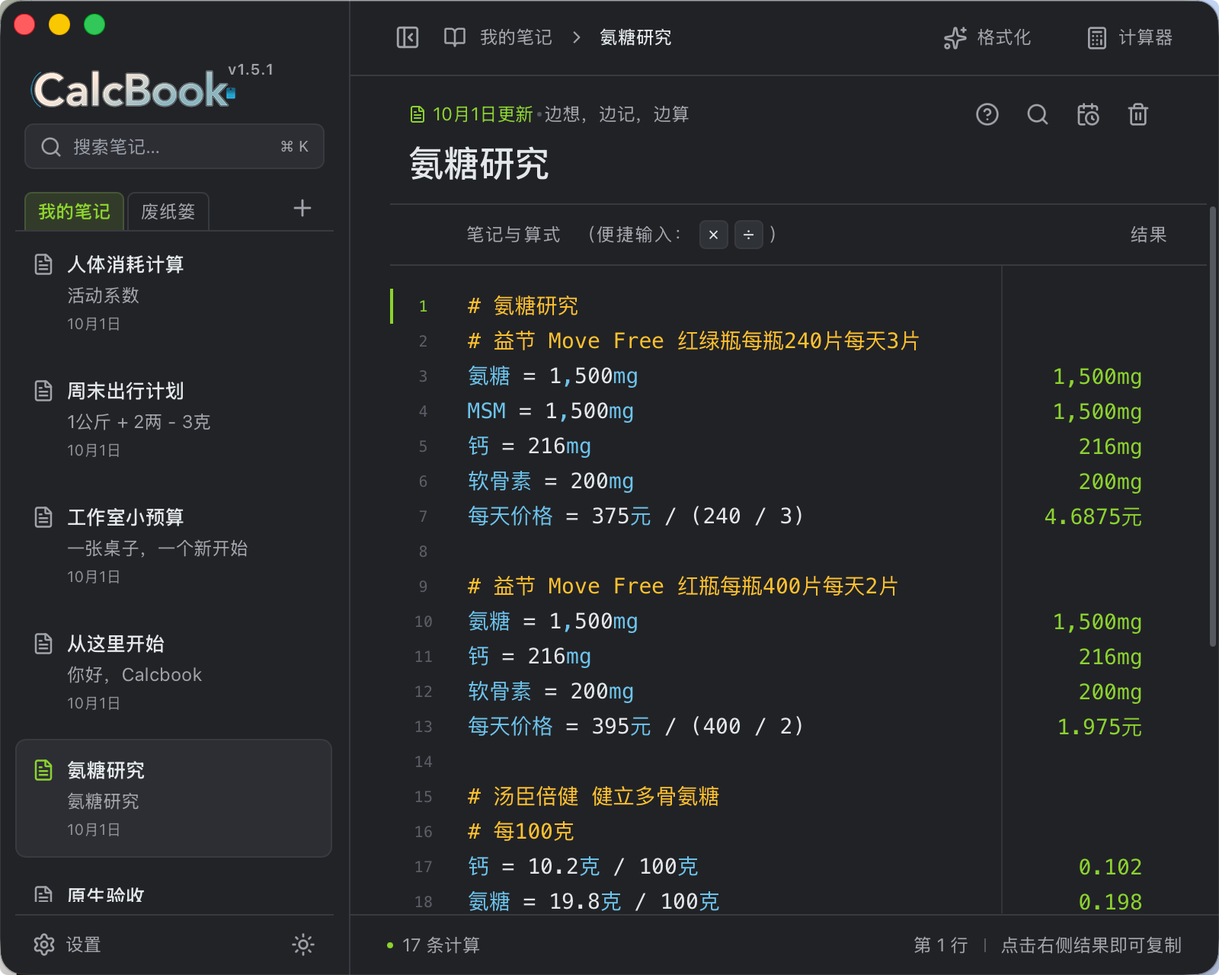
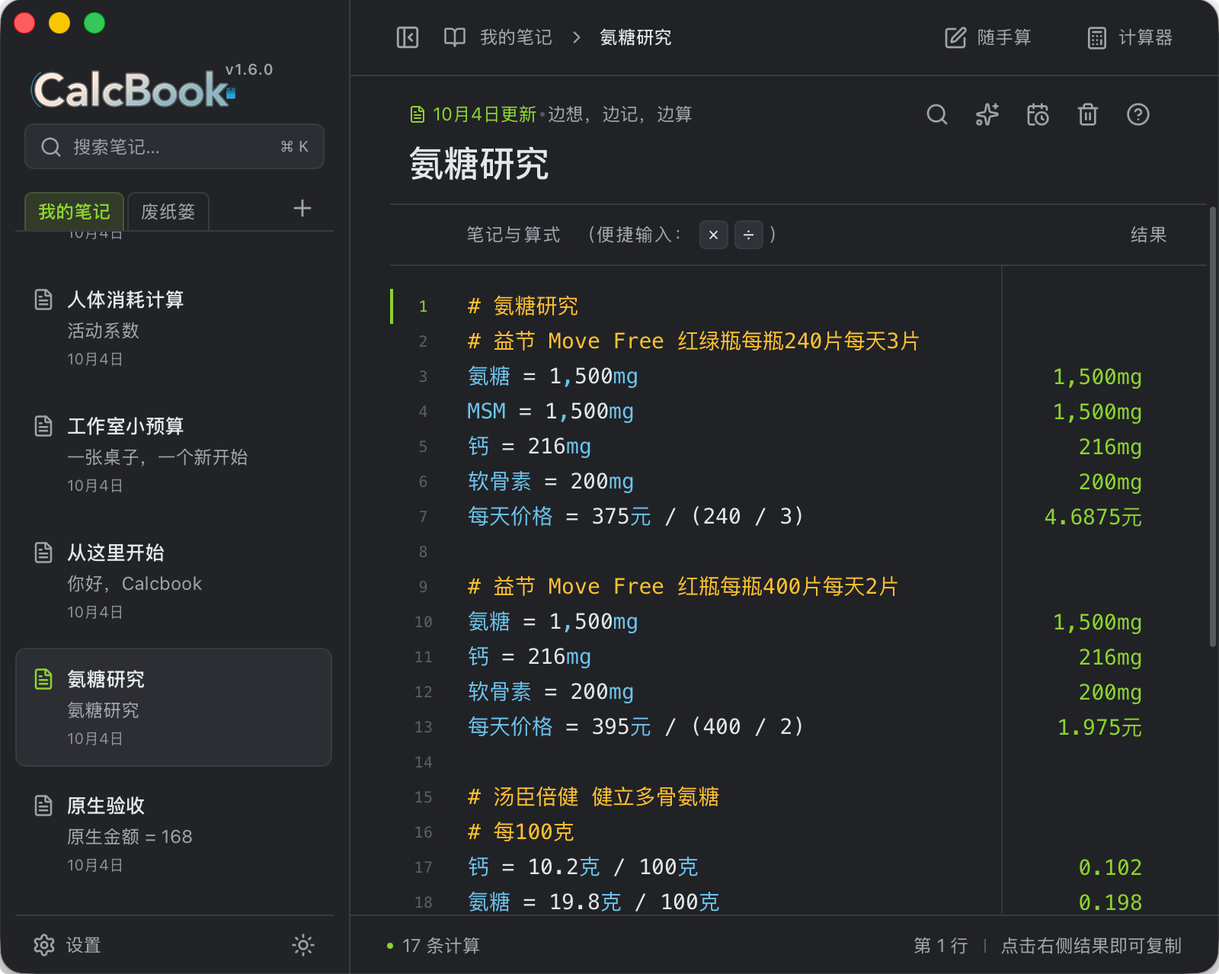
feat: 中文单位写法优先级（公斤→千克、公分→厘米）与 README 实机截图（1.6.1）
语法速查两处单位表显示中文别名：「保留字 · 单位」生成器把别名并入同格
（千克 / 公斤 → kg、厘米 / 公分 → cm），「单位与符号」长度行补公分。

格式化新增中文写法优先级 ZH_UNIT_PREFERENCE：公斤收敛到千克、公分收敛
到厘米（tokenize 后统一改写，制式换算与风格改写只见规范写法）；注释不改，
实时结果仍按写法记忆保留用户原写法。顺手清理 UNITS 里重复的 dan 条目。

README 截图换为 1.6.0 实机深色界面。

diff --git a/src/ui/HelpDialog.tsx b/src/ui/HelpDialog.tsx
@@ -67,12 +67,17 @@ const aggregateGroups: ReferenceGroup[] = [
   },
 ];
 
-// 保留字全表：单位（中英对照，来自单位登记表）+ 函数/常量/汇总/关键字。
+// 保留字全表：单位（中英对照，来自单位登记表；中文别名并入同一格——公斤是千克的别名，
+// 同样是保留字，必须可见）+ 函数/常量/汇总/关键字。
 const unitReservedRows: ReferenceGroup["rows"] = [];
+const chineseAliases = (entry: (typeof UNITS)[number]) =>
+  (entry.aliases ?? []).filter((alias) => /\p{Script=Han}/u.test(alias));
 for (let index = 0; index < UNITS.length; index += 4) {
   const chunk = UNITS.slice(index, index + 4);
   unitReservedRows.push([
-    chunk.map((entry) => `${entry.zh} → ${entry.en}`).join("；"),
+    chunk
+      .map((entry) => [entry.zh, ...chineseAliases(entry)].join(" / ") + ` → ${entry.en}`)
+      .join("；"),
     "单位",
     "-",
   ]);
@@ -127,7 +132,7 @@ const unitGroups: ReferenceGroup[] = [
     termLines: true,
     rows: [
       [
-        "公里 / 千米 → km；米 → m；厘米 → cm；毫米 / 微米 / 纳米 → mm / um / nm",
+        "公里 / 千米 → km；米 → m；厘米 / 公分 → cm；毫米 / 微米 / 纳米 → mm / um / nm",
         "长度",
         "1英里 + 1公里 → 2.6093 km",
       ],

diff --git a/src/domain/units.ts b/src/domain/units.ts
@@ -84,7 +84,6 @@ export const UNITS: Entry[] = [
   { en: "t", zh: "吨", aliases: ["tonne", "tonnes", "公吨"] },
   { en: "jin", zh: "斤" },
   { en: "dan", zh: "担", aliases: ["市担"] },
-  { en: "dan", zh: "担", aliases: ["市担"] },
   { en: "liang", zh: "两" },
   { en: "qian", zh: "钱", aliases: ["市钱"] },
   { en: "lb", zh: "磅", aliases: ["pound", "pounds", "lbs", "lbm"], imperial: true },
@@ -220,6 +219,14 @@ for (const entry of UNITS) {
     }
   }
 }
+
+// 格式化的中文写法优先级（1.6.1）：同单位有多种中文写法时，格式化把算式收敛到优先写法。
+// 千克/厘米是规范名（UNITS.zh，结果呈现同源），公斤/公分是常用别名；实时结果仍保留用户写法。
+// 左值 → 右值；其余中文别名（公尺、千米、焦耳…）不在此列，格式化不动它们。
+export const ZH_UNIT_PREFERENCE: Record<string, string> = {
+  公斤: "千克",
+  公分: "厘米",
+};
 
 // 大小写兼容：输入 `5 KM` `1500MG` `2 ML` 与小写等价，输出统一小写缩写。
 // 表：小写形式 → 规范写法（输出用小写，重解析经此表还原）。

diff --git a/tests/units.test.ts b/tests/units.test.ts
@@ -106,6 +106,25 @@ test("按格式设置格式化整篇", () => {
   );
 });
 
+test("格式化把公斤/公分收敛到千克/厘米，注释与实时结果保留用户写法", () => {
+  assert.equal(
+    formatNoteBody("体重=70公斤\n桌宽=80公分", DEFAULT_FORMAT_SETTINGS, () => null),
+    "体重 = 70千克\n桌宽 = 80厘米",
+  );
+  // 公斤在注释里不参与计算，格式化不改注释
+  assert.equal(
+    formatNoteBody("体重=70公斤 # 公斤也认识", DEFAULT_FORMAT_SETTINGS, () => null),
+    "体重 = 70千克 # 公斤也认识",
+  );
+  // 千克/厘米本身写法不变；公斤/公分计算照常，实时结果保留用户写法
+  assert.equal(
+    formatNoteBody("重量=2千克\n长度=3厘米", DEFAULT_FORMAT_SETTINGS, () => null),
+    "重量 = 2千克\n长度 = 3厘米",
+  );
+  assert.deepEqual(display("70公斤"), ["70公斤"]);
+  assert.deepEqual(display("3公分"), ["3公分"]);
+});
+
 test("格式化统一乘号写法，保留除法写法", () => {
   // x 与 * 都排成 ×，不再把 x 当成单位吸附到数字上
   assert.equal(

diff --git a/src/domain/formatting.ts b/src/domain/formatting.ts
@@ -9,6 +9,7 @@ import {
   TO_METRIC,
   type UnitSystemKind,
   unitKind,
+  ZH_UNIT_PREFERENCE,
   zhToCanonical,
 } from "./units.ts";
 
@@ -155,6 +156,13 @@ export function formatExpression(
   convert: ConvertQuantity,
 ): string {
   let tokens = tokenize(unifyMultiplication(expression));
+  // 中文写法优先级（1.6.1）：公斤→千克、公分→厘米。放在最前，
+  // 后续制式换算与风格改写都只见规范写法；注释不进这里，不会被改。
+  tokens = tokens.map((token) => {
+    if (token.kind !== "word") return token;
+    const preferred = ZH_UNIT_PREFERENCE[token.text];
+    return preferred ? { ...token, text: preferred } : token;
+  });
   const hasConversionWord = tokens.some(
     (token) => token.kind === "word" && isConversionWord(token.text),
   );

diff --git a/docs/QUALITY_SCORE.md b/docs/QUALITY_SCORE.md
@@ -12,7 +12,7 @@
 | 原生持久化 | 2026-09-30 标题即文件名（1.1.0）：`pnpm check:native` 通过（fmt + clippy + 13 个测试）。标题改为文件名主干——scan/create 返回 stem、正文 `#` 首行不再参与标题；新增 `rename_note`（撞名自动加序号、同名无操作、剥掉误带的 `.txt`、废纸篓改名留原层级、空名退回「未命名」）与 `create_note` 空正文落空文件的单测；修复 `resolve_pair` 对带 `recycled/` 前缀 id 的解析（重载后从废纸篓恢复此前会空转），恢复路径有回归断言。2026-09-21 `pnpm check:native` 通过（fmt + clippy + 5 个测试）：正文落到以标题命名的 `.txt`、元数据不重复保存正文、用户自己放进目录的 `.txt` 不被删除、越界文件名与损坏元数据拒绝写入、正文文件丢失时明确报错、单文件工作区迁移成 `.txt` 且旧文件留 `.bak`、旧数据目录只读不被就地改写、目录切换与配置提交失败保护 | 桌面实机改名（标题输入 → .txt 重命名）、外部文件管理器同看改名结果 |
 | 类型与构建 | 2026-09-30 `pnpm check` 完整通过（文档/架构门禁、格式、类型、测试、生产构建）；1.4.7 `.app` 构建通过（`pnpm desktop:build --bundles app`，Info.plist CFBundleShortVersionString 实测 1.4.7）（`pnpm desktop:build --bundles app`，产物 `target/release/bundle/macos/Calcbook.app`）。2026-09-28 `pnpm check` 完整通过（文档/架构门禁、格式、类型、76 个测试、生产构建） | 发行构建 |
 | 文档与架构 | 2026-09-21 同步笔记文件格式（Numi 兼容）、存储布局、导入命令与已知计算差异；架构门禁通过（13 篇文档、15 个模块） | 最新文档/架构门禁 |
-| 浏览器 UI | 2026-10-04 随手算启动恢复与文案（1.6.0，浏览器预览自动化实测 6 场景）：信息行文案改「临时笔记」。启动恢复约定 `activeId=null` =「当前显示的不是我的笔记里的笔记」——实测矩阵：① 有效 activeId reload 恢复原笔记；② activeId=null（上次在随手算）reload 落在新随手算（正文恰为初始一行、面包屑「随手算」）；③ 清空存储（首次打开）落随手算；④ activeId 指向废纸篓笔记 reload 落随手算；⑤ 点「随手算」按钮即把 activeId 置 null 持久化；⑥ 废纸篓 tab 置 null、切回我的笔记 tab 落回第一篇可用笔记。判定为幂等启动逻辑（useLayoutEffect 首帧前完成、无闪烁），不回写工作区；随手算 id 永不持久化（parseWorkspace 校验 activeId 必须在笔记集合内、Rust save_settings 过滤无效引用，双侧已核实）。notebook 单测覆盖 createWorkspace activeId=null 往返；`pnpm check` 与 `check:native`（14 个 Rust 测试）通过。 2026-10-04 随手算与工具行重排（1.5.6，浏览器预览自动化实测，800×640）：① 顶栏「随手算」（SquarePen）打开内存临时算稿——首次点开正文恰为一行「# 随手算笔记不会保存，app 退出即消失」，面包屑只显示「随手算」、标题框只读「随手算」、meta 显示「内存笔记 · 退出即消失」、侧栏选中项清零（实测 is-selected 0 个）、按钮 aria-pressed=true 高亮绿、document.title 同步；② 不落盘——编辑「2 + 3 / 预算 = 100 * 2」得结果列 5 / 200，localStorage 两键（workspace/history）扫描无随手算内容；③ 历史空态——随手算下打开历史弹窗显示「还没有历史记录」空态，不查存储层；④ 护栏——「移到废纸篓」禁用（title 提示不会保存为文件）；⑤ 恢复——切回普通笔记（面包屑/选中恢复、按钮熄灭）再点「随手算」，正文原样恢复；⑥ 格式化在随手算可用——`100 * 2` 整理为 `100 × 2`，toast 正常；⑦ 刷新（等价退出）随手算消失回到普通笔记；⑧ 工具行五图标顺序实测为 查找替换→格式化（sparkles，自顶栏移入）→历史记录→删除→语法速查；顶栏「尚未保存」错误指示改常驻条件渲染于按钮左侧。桌面 .app 随手算与真实文件系统隔离（无 createNoteFile 路径）由代码审查确认。 2026-10-04 计算器子窗口键盘接管与反馈修复（1.5.5，浏览器预览自动化实测，320×520 视口）：① 键盘整体接管——`1` `/` `3` 输入 `1÷3`（`/` `x` `*` `\` 实测映射为 ÷/×，字母 `a` 无反应，Escape/`C`/`c` 清空、`=` 与回车同为等于，实测 `9` `9` `=` 得 `99`）；② 等号精度——`1/3` 回车后算式框与结果列同变 `0.3333`，退格得 `0.333`（不再是 64 位长串），`1÷7` 续算 `×7=` 得 `1.0003`（keypad 单测覆盖）；③ 错误不挤布局——`1+` 回车后「算式还不完整…」原位替换顶部「随手算一算」（class `calc-error`、单行省略），屏高 143.00 与 keypad top 198.00 三态（前/错中/恢复）逐像素不变，按数字恢复文案；④ 算式框不可聚焦——readOnly、tabIndex=-1、mousedown 阻止，实测点击后 activeElement 仍为 BODY；⑤ 按压态——keydown 后 `7` 键带 `is-pressed`、keyup 后为 0 个；⑥ 算式屏底色随窗口焦点（`data-calc-focus`）；⑦ 按键音为 WebAudio 合成（`src/ui/keySound.ts`，无音频资源），自动化环境无法验证 audible，待实机试听。2026-10-01 反馈六项修复（1.5.4，浏览器预览 Chrome 152 自动化实测 19/19）：① 笔记工具行查找图标改开关——开着再点即关（`findOpen ? closeFind : openFind`），提示在「查找替换（Cmd+F）」/「关闭查找替换（Esc）」间切换，实测 开→关→开 三态；② 废纸篓空态不接受新建（主区无「新建笔记」按钮），面包屑显示「废纸篓 › 空」，切回「我的笔记」编辑器恢复；③ 标题输入框聚焦无外框（`outline: none`，实测命中 `:focus-visible` 且 outline-style none、无阴影）——1.5.1 移除共享绿框后浏览器默认蓝框接管，本版明确关闭；④ footer 分隔符由前导「· 」改为普通文字色管道符（`--muted`，实测 sep 与状态栏同色 rgb(104,114,125)）：结构为「n 条计算 \| n 处待检查 \| 第 k 处：原因」；⑤ 分隔符移到按钮外、用负外边距抵消 6px gap（左右各 3px），hover 下划线只落在可点击计数上（实测 sep/detail 的 text-decoration-line 为 none，按钮为 underline）。2026-10-01 结果列错误交互（1.5.3，浏览器预览 Chrome 152 自动化实测 13/13）：「检查算式」结果列内左对齐（距列左缘 < 30px）、无 title 属性；自定义提示浮层单行 nowrap、宽度随内容弹性（非旧固定 220px）、编辑器同色纸面/墨色、1px 默认边框色描边；点击按钮光标落到该行行尾（偏移精确）且焦点还回编辑器；footer 在「n 处待检查」后显示「第 k 处：出错原因」；浮层双向防溢出——向下空间不足改向上（按钮压滚动容器底缘实测 is-up 且提示在按钮上方）、向右超出改从行右缘向左展开（右缘不超出窗口）。验收环境备注：headless Chrome 的 Cmd+A 不触发 textarea 原生全选（合成 meta+a 到达页面但 selection 不变），脚本清空正文改 native setter + input 事件。2026-10-01 状态栏错误定位（1.5.2，浏览器预览 Chrome 152 自动化实测 6/6）：「n 处待检查」变为可点击按钮，点击把光标依次停在每个错误行的行尾并滚动可见、循环回绕、焦点还回编辑器、状态栏行号同步（实测坏算式行 2/4 行尾 caret 偏移精确、第三次点击循环回第 2 行）；遍历序号用独立 ref 维护不读当前光标（点击会让编辑器失焦），切换笔记重置。README 截图替换为 1.5.1 实机界面（1600×1280）。2026-10-01 查找替换反馈修复（1.5.1，浏览器预览 Chrome 152 自动化实测 12/12）：① 连续 Cmd+Z 重复正文修复——撤销改单轨，execCommand 成功即让位原生撤销栈（formatUndoRef 清空），仅回退路径挂应用内撤销；格式化同款路径一并修正。实测连续三次原生撤销（headless Chrome 无 macOS 编辑菜单、键盘 Cmd+Z 不到达 textarea，用 execCommand('undo') 代理）：第一次精确还原替换前、第二三次无重复内容。② 正则开关改 ASCII「.*」等宽字形（lucide Regex 圆点悬空像中文句号）。③ 全局移除 input 聚焦绿框（共享 :focus-visible 规则摘除 input，历史条数输入绿边框改中性色）。④ 笔记工具行加查找图标入口（历史记录左侧，点击打开浮动条）。⑤ 浮动条 top 6px→-34px，展开替换行不压首行正文与结果列（截图核对完整可见、无裁剪）。2026-10-01 笔记内查找替换（1.5.0，浏览器预览 Chrome 152 自动化实测）：⌘F 打开编辑区右上浮动条，三开关（区分大小写/全词 \b/正则）独立与组合生效——`price` 不区分大小写 1/3、区分后 1/1，`cat` 全词 1/2→1/1，`花(\d+)元` 正则 1/2；非法正则输入框标红、计数区「正则错误」不清空正文；Enter/Shift+Enter 导航首尾回绕且选区精确落位 [9,14]；替换行单替换走 execCommand 原生撤销逐步还原，全部替换先留档再一次 Cmd+Z 整体还原（`花(\d+)元`→`[$1]` 得 `[3] 又[15]`，整个匹配被替换串消费）；镜像层叠加全部匹配淡金底色、当前匹配唯一醒目（明暗主题截图核对），560px 窄窗口浮动条可用；跳转不抢焦点（修复输入竞态后 16/16 通过）。桌面 .app 实机操作待复核。2026-10-01 设置格式区重构与 tab 贴线（1.4.3）：设置弹窗格式区拆为「格式化 - 空格与数字」与单位两个 section（无 fieldset/legend/引导句，单位两组标签改为「格式化 - 单位写法」「格式化 - 单位制」共用一个 section，自由/制式说明保留），实测 legend/fieldset 数量为 0、h3 与分组标签文案正确；侧栏 tab 按钮与标题行底对齐——heading 改 align-items: flex-end、动作列 align-self: center，实测 button 底边距下边线 1px（贴在 border 上缘，下边线即按钮下边框效果）、右侧 + 图标中心 15/31 垂直居中（用户手调的 button 无下边框/顶圆角保留）。2026-10-01 窗口尺寸并入配置目录（1.4.7）：`window.json` 从默认数据目录 ~/.calcbook 移除，尺寸存 Application Support/settings.json 的 window 字段（与 dataDirectory 同文件，relocate 保留 window），数据目录迁走后 ~/.calcbook 不再有活跃写入；旧 window.json 兼容读取、首次保存后自动清理，损坏 settings.json 视为无记录不阻塞启动（原生 14 测试覆盖往返/钳制/兼容/清理）。2026-10-01 结果显示格式（1.4.6）：结果列与计算器 display 的数字与单位间空格实时跟随设置「数字与单位空格」（关 = `5km`/`99.5CNY` 紧贴、开 = `5 km` 带空格；正文经格式化对齐同一设置；raw 与写入 .txt 的 `= 结果` 保留带空格原格式且无千分位，Numi 兼容与 format.test 往返测试不受影响；新增 unitSpacing 契约测试）；千分位拆「笔记千分位逗号」（原 thousands，格式化写正文）与「结果千分位逗号」（新 resultThousands，默认开，只影响结果列）——实测设置弹窗内切换开关，结果列不关弹窗即时在 `3703701`↔`3,703,701` 间变化；TS/Rust FormatSettings 同步新字段（serde default true）。2026-10-01 编辑区滚动条贴窗缘（1.4.5）：`.editor-scroll` 去右 margin 改 `overflow-y: scroll`（透明轨道常驻 gutter，滚动条出现时布局不突变；刻意不用 scrollbar-gutter——旧 WKWebView 忽略该属性），结果列 padding-right 承担与滚动条的间距；实测长短内容 clientWidth/gridWidth 均 1016px 零变化、容器右缘距窗体 0px。2026-10-01 历史删除与删除确认（1.4.4，浏览器预览实测）：历史弹窗右上角关闭叉叉（打开时焦点实测落弹窗容器而非叉叉）；每条历史增加删除图标，确认弹窗（列明时间与不可恢复）后真实删除——实测 3→2 条、toast「已删除 10月1日 11:13:43 的历史」；编辑器工具行「移到废纸篓」改为先弹确认（列明标题、说明可恢复），实测确认前笔记不被删除；Rust `delete_history` 支持秒级与旧整点名（删空目录一并清理，非法名拒绝），原生 14 测试通过。2026-10-01 滚动条改纯 webkit 自绘（1.4.2）：1.4.1 仍见系统亮色粗条——新版 WebKit 支持 `scrollbar-width`，按规范元素设置标准属性后必须忽略 ::-webkit-scrollbar，回落到 macOS 平台渲染（跟随系统的亮色 overlay 条，深色主题里刺眼且颜色失控）。解法：删除全部 `scrollbar-width: thin` / `scrollbar-color`（calc-history-sidebar 的 none 保留作 Firefox 隐藏兜底），全站唯一来源是全局 `::-webkit-scrollbar` 8px（滑块 border 2px + background-clip，视觉约 4px 细条、圆角、`--scroll-thumb` 主题色），浏览器实测深色下编辑器滚动条为细圆条主题色。设置弹窗圈圈 i 移除，0 关闭语义合并进下方说明文字（「设为 0 关闭历史，将删除所有历史版本记录——编辑到哪篇或重启应用时才删除，重启前可反悔…」），实测弹窗无 Info 图标、文案完整。2026-10-01 修复与滚动条统一（1.4.1）：①桌面保存报错 `missing required key historyLimitKb`——Tauri 把命令参数名做 snake→camel 规范化，`historyLimitKB` 的结尾缩写 KB 降为 Kb，Rust 参数与前端 invoke 键改为 `historyLimitKb`（localStorage/JSON 字段仍为 historyLimitKB，不受影响）；②设置/帮助/历史弹窗容器改为不滚动（padding 0、内部区自带 padding），唯一滚动条贴 dialog 右缘，实测 body 右缘与 dialog 右缘差 1px（边框）；③theme 新增 `--scroll-thumb`（两主题各 #c4c9cf / #555860，带行内注释），全部 scrollbar-color 与 ::-webkit-scrollbar-thumb 统一引用，note-list 3px 特例同步换色；④全局 `::-webkit-scrollbar` 9px（border 2px + background-clip 视觉约 5px 细条）——WKWebView 不支持 `scrollbar-width: thin`（app 里粗条的原因），补 webkit 伪元素后桌面与浏览器一致。实测深浅主题设置弹窗滚动贴边、标题底栏固定。2026-09-30 历史 redesigned 为秒级快照（1.3.0）：文件名改为 `年-月-日-时-分-秒`，当前小时可有多份（定时节奏放缓为每 10 分钟、破坏性操作前各一份）；超过一小时的部分在每次留档与打开弹窗时整理——每小时只留最后一份并改名为整点 `…-时-00-00`（旧版 13 字符整点文件名兼容参与整理）；仅空行空格视为空文件不留档（有文字或数字都留档）。1.4.0 历史上限进设置弹窗（「编辑历史」区，KB 输入默认 128、0 = 关闭，Info 悬停提示；设 0 不立即清空——编辑到哪篇清哪篇、重启扫描清空全部，重启前可反悔），浏览器预览实测三段流程：128 编辑切换留档 1 条 → 设 0 编辑切换后该篇历史清空（未编辑笔记不受影响）→ 设回 128 留档恢复；另发现多标签同源互踩 localStorage 的验收假象（关掉多余标签后复测通过），上限经 save_workspace_settings/record_history 参数化传给 Rust（scan 读取设置：0 清空全部 history/、否则只清孤儿目录）；1.3.1 上限降为单篇 128KB（淘汰最早、最新一份永不淘汰——超大单篇快照可超限不至于历史全空），启动扫描清理不再对应任何笔记的孤儿 history 目录（外部改名/手工残留；废纸篓笔记的历史保留）；Rust 测试覆盖：同小时多份、旧小时归档留最后一份、旧格式迁移、128KB 淘汰、超大快照保留最新、孤儿目录清理、时间戳格式校验（14 个原生测试通过）；浏览器预览实测：无数字内容切换不留档（条目 0）、切换两次得两份秒级快照（22:47:01/22:47:02 同小时共存）、恢复载入第一版且未编辑切走切回不新增条目、弹窗标签显示到秒可区分同分钟快照。恢复不再覆盖被恢复的快照（各自独立秒级文件）。补充实测（规则修正后）：纯文字无数字内容切换正常留档；选中 6 行剪切（onCut）先留档再删除，条目 +1。2026-09-30 编辑历史与整行剪切换行（1.2.0，浏览器预览实测）：笔记工具行导入/导出按钮移除，换为「历史记录」（calendar-clock）打开固定尺寸弹窗——左列表（只显时间「9月30日 19时」）右预览、每项带恢复图标（calendar-arrow-up）；实测编辑→切换笔记触发留档→重开弹窗有条目有预览；恢复把历史内容载入编辑器（toast「已恢复到 9月30日 19时」）且列表刷新为当前小时桶内容（当前内容覆盖同桶快照，属每小时一桶的既定语义）；切走切回未编辑不新增条目（内容未变不重复备份）。实测整行 Cmd+X 剪贴板内容为含行尾换行的 `交通 = 186\n`、整行从正文移除。历史留档时机（2 分钟定时/切换/关闭/格式化前）中，定时与关闭路径为桌面运行时行为、预览态未实测；恢复后 Cmd+Z 撤销未实测（合成键不触发原生撤销）。2026-09-30 字标版本角标（1.1.1）：字标右上角 10px `--muted` 小字显示构建时注入的 `v版本号`，浏览器实测纸白/午夜两主题下右缘与字标对齐、随主题变色，文本 `v1.1.1` 与 package.json 一致；`.brand` 仍是拖拽区（角标非交互，按住可拖窗）。2026-09-30 标题即文件名与整行复制剪切（1.1.0，浏览器预览实测）：标题输入只改草稿、失焦/回车提交——真实焦点路径下改名后面包屑、侧栏卡片、`document.title` 与 localStorage 全部同步为「周末出行计划」，Escape 放弃（修复了 Escape 后同步失焦误提交旧草稿的闭包问题，改 ref 镜像）；预览 localStorage 数据仅改标题字段、正文首行 `#` 标记不动。编辑器无选区 Cmd+C：正文不变、剪贴板为整行 `0.1 + 0.2`（无换行）；无选区 Cmd+X：整行（含行尾换行）从正文移除、剪贴板为 `sqrt(144)`；有选区路径代码早退不 preventDefault。800×640 截图核对标题区/面包屑/列表一致，无控制台错误。注意：合成按键不触发浏览器默认编辑动作（Cmd+V/Cmd+Z/原生选区剪切），相关行为自动化无法验证。2026-09-29 主题标识重命名与固定布局（0.6.11）：主题 `paper`/`midnight` 改为 `light`/`dark`（CSS `[data-theme]`、工作区数据、Rust 校验与默认值同步），读取迁移 `paper`/`sand`/`mist`→`light`、`midnight`/`forest`/`graphite`→`dark`——实测 localStorage 塞 `midnight` 刷新后 dataset=dark、深色背景生效，保存后写回 `dark`；主题切换按钮 dark↔light 往返持久化正确。删除全部宽度/高度 media query（1500/1150/700 三块折叠进基础样式，`prefers-reduced-motion` 保留）：实测 800×640、1280×800、1700×1000 三尺寸 sidebar 230px、topbar/note-heading padding 完全一致；page-stamp 死样式随断点一并移除。编辑器聚焦不再显示描边（保留 `outline:none` 防全局绿 outline）；notebook-tabs 两按钮 1px 边框、选中项苔绿淡底（rgb(238,244,232)）绿字。计算器按键 41px 基础样式。2026-09-29 计算器「最近计算」标题位移修复（0.6.10）：旧实现清空按钮为 30 px IconButton 且仅在有历史时渲染，标题行从 min-height 36 px 撑到 47 px，实测标题 y 从 58 移到 64；改为固定 height 41 px（border-box：1 边框 + 16 内边距 + 24 按钮），清空动作改为与「历史」开关同款的带常显边框「清空」文字按钮（24 px 高、无图标）。实测空态/有历史/清空后三状态标题 y 均为 61、行高均为 41，点击清空后历史归零、空态提示回归。2026-09-29 侧栏 tab 改版（0.6.9）：列表标题行改为「我的笔记/废纸篓」两个 `aria-pressed` tab；「我的笔记」tab 行尾动作图标为「新建笔记」（+），「废纸篓」tab 为「永久删除全部」（垃圾桶）且图标左侧显示文件数（实测删 1 篇后显示 1，切换恢复正确）；文件列表下方新建按钮、侧栏底部废纸篓与语法速查按钮移除，底部只剩设置行；语法速查入口移到笔记工具行导入图标左侧（带圈问号），弹窗打开、Escape 关闭正常。2026-09-29 `pnpm dev` 改经 `scripts/dev.mjs`：预占 1420 端口（python http.server）实测被 SIGKILL 后 vite 正常起在 1420；`tauri icon` 以新 icon.png 重新生成全套图标。2026-09-28 修复侧栏设置行主题按钮被 `.settings-entry > button` 的 `flex: 1` 命中而拉宽：改为 `:not(.theme-toggle)` 后实测 30×30；点击回归：浅色→深色→浅色，按钮名称随主题互换。2026-09-28 计算器子窗口布局：`?view=calculator` 视口 320×500，主体列固定 300 px，「历史」按钮右缘 284、顶部 40 px 带内；`elementFromPoint` 命中：带内→`.calc-header`（drag region）、带下→`.calc-screen`；加宽到 600 px 后按钮矩形完全不变，`aria-pressed` 切到 true、名称变「隐藏最近计算」。2026-09-28 实测：语法速查「单位与符号」写法列在 `；` 后断行，表格宽度收到面板宽、横向滚动消失；375 px 下表格保持 480 px 最小宽度并在面板内横向滚动。设置弹窗：打开后焦点落弹窗容器，Esc 关闭；高度实测 565 px、内容区可滚动、底栏常驻；便捷输入 `×`/`÷` 为 19×19 方形按钮，插入后光标落在符号之后并持有焦点；顶栏「格式化」与「计算器」按钮计算样式逐项一致；便捷输入按钮对比度 纸白 12.57:1、午夜 10.31:1。2026-09-21 实测：设置弹窗「单位写法」三选一写入工作区并持久化；语法速查「单位与符号」表 22 个示例逐条跑引擎核对一致 | 桌面实机剪切后 Cmd+Z 撤销、有选区原生复制/剪切（合成按键不触发浏览器默认编辑动作）；与 Numi 互开改名的 .txt |
+| 浏览器 UI | 2026-10-04 中文单位写法优先级与 README 截图（1.6.1，浏览器预览自动化实测）：① 语法速查两处单位表可见公斤/公分——「保留字 · 单位」表由生成器把中文别名并入同格（实测「千克 / 公斤 → kg」「厘米 / 公分 → cm」命中），「单位与符号」长度行改「厘米 / 公分 → cm」（质量行原有公斤）；② 格式化优先级——「体重 = 70公斤 / 桌宽 = 80公分 / 体重 + 10公斤 # 公斤也认识」点格式化后变「70千克 / 80厘米 / 体重 + 10千克 # 公斤也认识」（注释不动），实时结果未格式化时仍保留用户写法（`display("70公斤")`→`70公斤`，写法记忆规则不变）；③ 顺手清理 UNITS 重复的 dan（担）条目；④ docs/assets/screenshot.png 换为用户提供的 1.6.0 实机截图（1600×1278）。units 单测 11 项通过；`pnpm check` 全绿。 2026-10-04 随手算启动恢复与文案（1.6.0，浏览器预览自动化实测 6 场景）：信息行文案改「临时笔记」。启动恢复约定 `activeId=null` =「当前显示的不是我的笔记里的笔记」——实测矩阵：① 有效 activeId reload 恢复原笔记；② activeId=null（上次在随手算）reload 落在新随手算（正文恰为初始一行、面包屑「随手算」）；③ 清空存储（首次打开）落随手算；④ activeId 指向废纸篓笔记 reload 落随手算；⑤ 点「随手算」按钮即把 activeId 置 null 持久化；⑥ 废纸篓 tab 置 null、切回我的笔记 tab 落回第一篇可用笔记。判定为幂等启动逻辑（useLayoutEffect 首帧前完成、无闪烁），不回写工作区；随手算 id 永不持久化（parseWorkspace 校验 activeId 必须在笔记集合内、Rust save_settings 过滤无效引用，双侧已核实）。notebook 单测覆盖 createWorkspace activeId=null 往返；`pnpm check` 与 `check:native`（14 个 Rust 测试）通过。 2026-10-04 随手算与工具行重排（1.5.6，浏览器预览自动化实测，800×640）：① 顶栏「随手算」（SquarePen）打开内存临时算稿——首次点开正文恰为一行「# 随手算笔记不会保存，app 退出即消失」，面包屑只显示「随手算」、标题框只读「随手算」、meta 显示「内存笔记 · 退出即消失」、侧栏选中项清零（实测 is-selected 0 个）、按钮 aria-pressed=true 高亮绿、document.title 同步；② 不落盘——编辑「2 + 3 / 预算 = 100 * 2」得结果列 5 / 200，localStorage 两键（workspace/history）扫描无随手算内容；③ 历史空态——随手算下打开历史弹窗显示「还没有历史记录」空态，不查存储层；④ 护栏——「移到废纸篓」禁用（title 提示不会保存为文件）；⑤ 恢复——切回普通笔记（面包屑/选中恢复、按钮熄灭）再点「随手算」，正文原样恢复；⑥ 格式化在随手算可用——`100 * 2` 整理为 `100 × 2`，toast 正常；⑦ 刷新（等价退出）随手算消失回到普通笔记；⑧ 工具行五图标顺序实测为 查找替换→格式化（sparkles，自顶栏移入）→历史记录→删除→语法速查；顶栏「尚未保存」错误指示改常驻条件渲染于按钮左侧。桌面 .app 随手算与真实文件系统隔离（无 createNoteFile 路径）由代码审查确认。 2026-10-04 计算器子窗口键盘接管与反馈修复（1.5.5，浏览器预览自动化实测，320×520 视口）：① 键盘整体接管——`1` `/` `3` 输入 `1÷3`（`/` `x` `*` `\` 实测映射为 ÷/×，字母 `a` 无反应，Escape/`C`/`c` 清空、`=` 与回车同为等于，实测 `9` `9` `=` 得 `99`）；② 等号精度——`1/3` 回车后算式框与结果列同变 `0.3333`，退格得 `0.333`（不再是 64 位长串），`1÷7` 续算 `×7=` 得 `1.0003`（keypad 单测覆盖）；③ 错误不挤布局——`1+` 回车后「算式还不完整…」原位替换顶部「随手算一算」（class `calc-error`、单行省略），屏高 143.00 与 keypad top 198.00 三态（前/错中/恢复）逐像素不变，按数字恢复文案；④ 算式框不可聚焦——readOnly、tabIndex=-1、mousedown 阻止，实测点击后 activeElement 仍为 BODY；⑤ 按压态——keydown 后 `7` 键带 `is-pressed`、keyup 后为 0 个；⑥ 算式屏底色随窗口焦点（`data-calc-focus`）；⑦ 按键音为 WebAudio 合成（`src/ui/keySound.ts`，无音频资源），自动化环境无法验证 audible，待实机试听。2026-10-01 反馈六项修复（1.5.4，浏览器预览 Chrome 152 自动化实测 19/19）：① 笔记工具行查找图标改开关——开着再点即关（`findOpen ? closeFind : openFind`），提示在「查找替换（Cmd+F）」/「关闭查找替换（Esc）」间切换，实测 开→关→开 三态；② 废纸篓空态不接受新建（主区无「新建笔记」按钮），面包屑显示「废纸篓 › 空」，切回「我的笔记」编辑器恢复；③ 标题输入框聚焦无外框（`outline: none`，实测命中 `:focus-visible` 且 outline-style none、无阴影）——1.5.1 移除共享绿框后浏览器默认蓝框接管，本版明确关闭；④ footer 分隔符由前导「· 」改为普通文字色管道符（`--muted`，实测 sep 与状态栏同色 rgb(104,114,125)）：结构为「n 条计算 \| n 处待检查 \| 第 k 处：原因」；⑤ 分隔符移到按钮外、用负外边距抵消 6px gap（左右各 3px），hover 下划线只落在可点击计数上（实测 sep/detail 的 text-decoration-line 为 none，按钮为 underline）。2026-10-01 结果列错误交互（1.5.3，浏览器预览 Chrome 152 自动化实测 13/13）：「检查算式」结果列内左对齐（距列左缘 < 30px）、无 title 属性；自定义提示浮层单行 nowrap、宽度随内容弹性（非旧固定 220px）、编辑器同色纸面/墨色、1px 默认边框色描边；点击按钮光标落到该行行尾（偏移精确）且焦点还回编辑器；footer 在「n 处待检查」后显示「第 k 处：出错原因」；浮层双向防溢出——向下空间不足改向上（按钮压滚动容器底缘实测 is-up 且提示在按钮上方）、向右超出改从行右缘向左展开（右缘不超出窗口）。验收环境备注：headless Chrome 的 Cmd+A 不触发 textarea 原生全选（合成 meta+a 到达页面但 selection 不变），脚本清空正文改 native setter + input 事件。2026-10-01 状态栏错误定位（1.5.2，浏览器预览 Chrome 152 自动化实测 6/6）：「n 处待检查」变为可点击按钮，点击把光标依次停在每个错误行的行尾并滚动可见、循环回绕、焦点还回编辑器、状态栏行号同步（实测坏算式行 2/4 行尾 caret 偏移精确、第三次点击循环回第 2 行）；遍历序号用独立 ref 维护不读当前光标（点击会让编辑器失焦），切换笔记重置。README 截图替换为 1.5.1 实机界面（1600×1280）。2026-10-01 查找替换反馈修复（1.5.1，浏览器预览 Chrome 152 自动化实测 12/12）：① 连续 Cmd+Z 重复正文修复——撤销改单轨，execCommand 成功即让位原生撤销栈（formatUndoRef 清空），仅回退路径挂应用内撤销；格式化同款路径一并修正。实测连续三次原生撤销（headless Chrome 无 macOS 编辑菜单、键盘 Cmd+Z 不到达 textarea，用 execCommand('undo') 代理）：第一次精确还原替换前、第二三次无重复内容。② 正则开关改 ASCII「.*」等宽字形（lucide Regex 圆点悬空像中文句号）。③ 全局移除 input 聚焦绿框（共享 :focus-visible 规则摘除 input，历史条数输入绿边框改中性色）。④ 笔记工具行加查找图标入口（历史记录左侧，点击打开浮动条）。⑤ 浮动条 top 6px→-34px，展开替换行不压首行正文与结果列（截图核对完整可见、无裁剪）。2026-10-01 笔记内查找替换（1.5.0，浏览器预览 Chrome 152 自动化实测）：⌘F 打开编辑区右上浮动条，三开关（区分大小写/全词 \b/正则）独立与组合生效——`price` 不区分大小写 1/3、区分后 1/1，`cat` 全词 1/2→1/1，`花(\d+)元` 正则 1/2；非法正则输入框标红、计数区「正则错误」不清空正文；Enter/Shift+Enter 导航首尾回绕且选区精确落位 [9,14]；替换行单替换走 execCommand 原生撤销逐步还原，全部替换先留档再一次 Cmd+Z 整体还原（`花(\d+)元`→`[$1]` 得 `[3] 又[15]`，整个匹配被替换串消费）；镜像层叠加全部匹配淡金底色、当前匹配唯一醒目（明暗主题截图核对），560px 窄窗口浮动条可用；跳转不抢焦点（修复输入竞态后 16/16 通过）。桌面 .app 实机操作待复核。2026-10-01 设置格式区重构与 tab 贴线（1.4.3）：设置弹窗格式区拆为「格式化 - 空格与数字」与单位两个 section（无 fieldset/legend/引导句，单位两组标签改为「格式化 - 单位写法」「格式化 - 单位制」共用一个 section，自由/制式说明保留），实测 legend/fieldset 数量为 0、h3 与分组标签文案正确；侧栏 tab 按钮与标题行底对齐——heading 改 align-items: flex-end、动作列 align-self: center，实测 button 底边距下边线 1px（贴在 border 上缘，下边线即按钮下边框效果）、右侧 + 图标中心 15/31 垂直居中（用户手调的 button 无下边框/顶圆角保留）。2026-10-01 窗口尺寸并入配置目录（1.4.7）：`window.json` 从默认数据目录 ~/.calcbook 移除，尺寸存 Application Support/settings.json 的 window 字段（与 dataDirectory 同文件，relocate 保留 window），数据目录迁走后 ~/.calcbook 不再有活跃写入；旧 window.json 兼容读取、首次保存后自动清理，损坏 settings.json 视为无记录不阻塞启动（原生 14 测试覆盖往返/钳制/兼容/清理）。2026-10-01 结果显示格式（1.4.6）：结果列与计算器 display 的数字与单位间空格实时跟随设置「数字与单位空格」（关 = `5km`/`99.5CNY` 紧贴、开 = `5 km` 带空格；正文经格式化对齐同一设置；raw 与写入 .txt 的 `= 结果` 保留带空格原格式且无千分位，Numi 兼容与 format.test 往返测试不受影响；新增 unitSpacing 契约测试）；千分位拆「笔记千分位逗号」（原 thousands，格式化写正文）与「结果千分位逗号」（新 resultThousands，默认开，只影响结果列）——实测设置弹窗内切换开关，结果列不关弹窗即时在 `3703701`↔`3,703,701` 间变化；TS/Rust FormatSettings 同步新字段（serde default true）。2026-10-01 编辑区滚动条贴窗缘（1.4.5）：`.editor-scroll` 去右 margin 改 `overflow-y: scroll`（透明轨道常驻 gutter，滚动条出现时布局不突变；刻意不用 scrollbar-gutter——旧 WKWebView 忽略该属性），结果列 padding-right 承担与滚动条的间距；实测长短内容 clientWidth/gridWidth 均 1016px 零变化、容器右缘距窗体 0px。2026-10-01 历史删除与删除确认（1.4.4，浏览器预览实测）：历史弹窗右上角关闭叉叉（打开时焦点实测落弹窗容器而非叉叉）；每条历史增加删除图标，确认弹窗（列明时间与不可恢复）后真实删除——实测 3→2 条、toast「已删除 10月1日 11:13:43 的历史」；编辑器工具行「移到废纸篓」改为先弹确认（列明标题、说明可恢复），实测确认前笔记不被删除；Rust `delete_history` 支持秒级与旧整点名（删空目录一并清理，非法名拒绝），原生 14 测试通过。2026-10-01 滚动条改纯 webkit 自绘（1.4.2）：1.4.1 仍见系统亮色粗条——新版 WebKit 支持 `scrollbar-width`，按规范元素设置标准属性后必须忽略 ::-webkit-scrollbar，回落到 macOS 平台渲染（跟随系统的亮色 overlay 条，深色主题里刺眼且颜色失控）。解法：删除全部 `scrollbar-width: thin` / `scrollbar-color`（calc-history-sidebar 的 none 保留作 Firefox 隐藏兜底），全站唯一来源是全局 `::-webkit-scrollbar` 8px（滑块 border 2px + background-clip，视觉约 4px 细条、圆角、`--scroll-thumb` 主题色），浏览器实测深色下编辑器滚动条为细圆条主题色。设置弹窗圈圈 i 移除，0 关闭语义合并进下方说明文字（「设为 0 关闭历史，将删除所有历史版本记录——编辑到哪篇或重启应用时才删除，重启前可反悔…」），实测弹窗无 Info 图标、文案完整。2026-10-01 修复与滚动条统一（1.4.1）：①桌面保存报错 `missing required key historyLimitKb`——Tauri 把命令参数名做 snake→camel 规范化，`historyLimitKB` 的结尾缩写 KB 降为 Kb，Rust 参数与前端 invoke 键改为 `historyLimitKb`（localStorage/JSON 字段仍为 historyLimitKB，不受影响）；②设置/帮助/历史弹窗容器改为不滚动（padding 0、内部区自带 padding），唯一滚动条贴 dialog 右缘，实测 body 右缘与 dialog 右缘差 1px（边框）；③theme 新增 `--scroll-thumb`（两主题各 #c4c9cf / #555860，带行内注释），全部 scrollbar-color 与 ::-webkit-scrollbar-thumb 统一引用，note-list 3px 特例同步换色；④全局 `::-webkit-scrollbar` 9px（border 2px + background-clip 视觉约 5px 细条）——WKWebView 不支持 `scrollbar-width: thin`（app 里粗条的原因），补 webkit 伪元素后桌面与浏览器一致。实测深浅主题设置弹窗滚动贴边、标题底栏固定。2026-09-30 历史 redesigned 为秒级快照（1.3.0）：文件名改为 `年-月-日-时-分-秒`，当前小时可有多份（定时节奏放缓为每 10 分钟、破坏性操作前各一份）；超过一小时的部分在每次留档与打开弹窗时整理——每小时只留最后一份并改名为整点 `…-时-00-00`（旧版 13 字符整点文件名兼容参与整理）；仅空行空格视为空文件不留档（有文字或数字都留档）。1.4.0 历史上限进设置弹窗（「编辑历史」区，KB 输入默认 128、0 = 关闭，Info 悬停提示；设 0 不立即清空——编辑到哪篇清哪篇、重启扫描清空全部，重启前可反悔），浏览器预览实测三段流程：128 编辑切换留档 1 条 → 设 0 编辑切换后该篇历史清空（未编辑笔记不受影响）→ 设回 128 留档恢复；另发现多标签同源互踩 localStorage 的验收假象（关掉多余标签后复测通过），上限经 save_workspace_settings/record_history 参数化传给 Rust（scan 读取设置：0 清空全部 history/、否则只清孤儿目录）；1.3.1 上限降为单篇 128KB（淘汰最早、最新一份永不淘汰——超大单篇快照可超限不至于历史全空），启动扫描清理不再对应任何笔记的孤儿 history 目录（外部改名/手工残留；废纸篓笔记的历史保留）；Rust 测试覆盖：同小时多份、旧小时归档留最后一份、旧格式迁移、128KB 淘汰、超大快照保留最新、孤儿目录清理、时间戳格式校验（14 个原生测试通过）；浏览器预览实测：无数字内容切换不留档（条目 0）、切换两次得两份秒级快照（22:47:01/22:47:02 同小时共存）、恢复载入第一版且未编辑切走切回不新增条目、弹窗标签显示到秒可区分同分钟快照。恢复不再覆盖被恢复的快照（各自独立秒级文件）。补充实测（规则修正后）：纯文字无数字内容切换正常留档；选中 6 行剪切（onCut）先留档再删除，条目 +1。2026-09-30 编辑历史与整行剪切换行（1.2.0，浏览器预览实测）：笔记工具行导入/导出按钮移除，换为「历史记录」（calendar-clock）打开固定尺寸弹窗——左列表（只显时间「9月30日 19时」）右预览、每项带恢复图标（calendar-arrow-up）；实测编辑→切换笔记触发留档→重开弹窗有条目有预览；恢复把历史内容载入编辑器（toast「已恢复到 9月30日 19时」）且列表刷新为当前小时桶内容（当前内容覆盖同桶快照，属每小时一桶的既定语义）；切走切回未编辑不新增条目（内容未变不重复备份）。实测整行 Cmd+X 剪贴板内容为含行尾换行的 `交通 = 186\n`、整行从正文移除。历史留档时机（2 分钟定时/切换/关闭/格式化前）中，定时与关闭路径为桌面运行时行为、预览态未实测；恢复后 Cmd+Z 撤销未实测（合成键不触发原生撤销）。2026-09-30 字标版本角标（1.1.1）：字标右上角 10px `--muted` 小字显示构建时注入的 `v版本号`，浏览器实测纸白/午夜两主题下右缘与字标对齐、随主题变色，文本 `v1.1.1` 与 package.json 一致；`.brand` 仍是拖拽区（角标非交互，按住可拖窗）。2026-09-30 标题即文件名与整行复制剪切（1.1.0，浏览器预览实测）：标题输入只改草稿、失焦/回车提交——真实焦点路径下改名后面包屑、侧栏卡片、`document.title` 与 localStorage 全部同步为「周末出行计划」，Escape 放弃（修复了 Escape 后同步失焦误提交旧草稿的闭包问题，改 ref 镜像）；预览 localStorage 数据仅改标题字段、正文首行 `#` 标记不动。编辑器无选区 Cmd+C：正文不变、剪贴板为整行 `0.1 + 0.2`（无换行）；无选区 Cmd+X：整行（含行尾换行）从正文移除、剪贴板为 `sqrt(144)`；有选区路径代码早退不 preventDefault。800×640 截图核对标题区/面包屑/列表一致，无控制台错误。注意：合成按键不触发浏览器默认编辑动作（Cmd+V/Cmd+Z/原生选区剪切），相关行为自动化无法验证。2026-09-29 主题标识重命名与固定布局（0.6.11）：主题 `paper`/`midnight` 改为 `light`/`dark`（CSS `[data-theme]`、工作区数据、Rust 校验与默认值同步），读取迁移 `paper`/`sand`/`mist`→`light`、`midnight`/`forest`/`graphite`→`dark`——实测 localStorage 塞 `midnight` 刷新后 dataset=dark、深色背景生效，保存后写回 `dark`；主题切换按钮 dark↔light 往返持久化正确。删除全部宽度/高度 media query（1500/1150/700 三块折叠进基础样式，`prefers-reduced-motion` 保留）：实测 800×640、1280×800、1700×1000 三尺寸 sidebar 230px、topbar/note-heading padding 完全一致；page-stamp 死样式随断点一并移除。编辑器聚焦不再显示描边（保留 `outline:none` 防全局绿 outline）；notebook-tabs 两按钮 1px 边框、选中项苔绿淡底（rgb(238,244,232)）绿字。计算器按键 41px 基础样式。2026-09-29 计算器「最近计算」标题位移修复（0.6.10）：旧实现清空按钮为 30 px IconButton 且仅在有历史时渲染，标题行从 min-height 36 px 撑到 47 px，实测标题 y 从 58 移到 64；改为固定 height 41 px（border-box：1 边框 + 16 内边距 + 24 按钮），清空动作改为与「历史」开关同款的带常显边框「清空」文字按钮（24 px 高、无图标）。实测空态/有历史/清空后三状态标题 y 均为 61、行高均为 41，点击清空后历史归零、空态提示回归。2026-09-29 侧栏 tab 改版（0.6.9）：列表标题行改为「我的笔记/废纸篓」两个 `aria-pressed` tab；「我的笔记」tab 行尾动作图标为「新建笔记」（+），「废纸篓」tab 为「永久删除全部」（垃圾桶）且图标左侧显示文件数（实测删 1 篇后显示 1，切换恢复正确）；文件列表下方新建按钮、侧栏底部废纸篓与语法速查按钮移除，底部只剩设置行；语法速查入口移到笔记工具行导入图标左侧（带圈问号），弹窗打开、Escape 关闭正常。2026-09-29 `pnpm dev` 改经 `scripts/dev.mjs`：预占 1420 端口（python http.server）实测被 SIGKILL 后 vite 正常起在 1420；`tauri icon` 以新 icon.png 重新生成全套图标。2026-09-28 修复侧栏设置行主题按钮被 `.settings-entry > button` 的 `flex: 1` 命中而拉宽：改为 `:not(.theme-toggle)` 后实测 30×30；点击回归：浅色→深色→浅色，按钮名称随主题互换。2026-09-28 计算器子窗口布局：`?view=calculator` 视口 320×500，主体列固定 300 px，「历史」按钮右缘 284、顶部 40 px 带内；`elementFromPoint` 命中：带内→`.calc-header`（drag region）、带下→`.calc-screen`；加宽到 600 px 后按钮矩形完全不变，`aria-pressed` 切到 true、名称变「隐藏最近计算」。2026-09-28 实测：语法速查「单位与符号」写法列在 `；` 后断行，表格宽度收到面板宽、横向滚动消失；375 px 下表格保持 480 px 最小宽度并在面板内横向滚动。设置弹窗：打开后焦点落弹窗容器，Esc 关闭；高度实测 565 px、内容区可滚动、底栏常驻；便捷输入 `×`/`÷` 为 19×19 方形按钮，插入后光标落在符号之后并持有焦点；顶栏「格式化」与「计算器」按钮计算样式逐项一致；便捷输入按钮对比度 纸白 12.57:1、午夜 10.31:1。2026-09-21 实测：设置弹窗「单位写法」三选一写入工作区并持久化；语法速查「单位与符号」表 22 个示例逐条跑引擎核对一致 | 桌面实机剪切后 Cmd+Z 撤销、有选区原生复制/剪切（合成按键不触发浏览器默认编辑动作）；与 Numi 互开改名的 .txt |
 | 桌面 UI | 2026-09-28 三项修复（0.6.6）：①拖拽区不动——capability 缺 `core:window:allow-start-dragging`（Tauri 注入脚本 invoke 被 ACL 拒绝且无报错），补权限后 gen/schemas 实测解析出 `allow: start_dragging`；②跨屏居中——tao `set_position` 底层 `setFrameTopLeftPoint` 被 AppKit 约束在当前屏幕内，0.6.5 实机故障现场（主窗外接屏 [-447,-1185]、计算器停在默认级联位 [591,33]）证实定位被静默忽略；改用原生 `NSWindow.setFrame(_:display:)` 读两窗真实点坐标再居中（objc2-app-kit 0.3.2 与依赖树同版本），`centered_origin` 单元测试含 0.6.5 故障现场回归（期望 (43, 1506.5)，落在主窗所在屏纵向区间）；用户实测确认跨屏已修好；③启动后要点两下——tauri 建窗默认即显示，首下 toggle 的 `is_visible()` 为真走了 hide 分支；临时日志实测（建窗后 visible=true→hide；加 `.visible(false)` 后 visible=false→show），debug 与 release 二进制各实测一次单击：计算器即刻出现在 [606,241]，与主窗 [116,80,1280,821] 的期望中心逐像素一致；日志同时确认命令运行在主线程（ThreadId(1)，AppKit 调用安全）。`pnpm check`（76 测试）与 `check:native`（fmt + clippy + 10 测试）通过，`.app` Info.plist 0.6.6。2026-09-29 品牌与窗口尺寸记忆：侧栏字标换为 `src/assets/dark.png`/`light.png`（270×62 2x 资产，显示 135×31），双 `<img>` + `[data-theme]` CSS 切换，浏览器实测纸白 light.png/午夜 dark.png 均为 135×31 且随主题即时切换；主窗尺寸记忆：默认开在最小 800×640（tauri.conf `visible:false`，Rust setup 恢复后再 show 防闪烁），缩放结束 600ms 防抖经 `save_window_size` 命令写入 `~/.calcbook/window.json`，主窗 CloseRequested 兜底保存（覆盖 Cmd+Q 路径），恢复时钳制到最小尺寸；Rust 单测覆盖读写往返/钳制/损坏拒绝（11 个原生测试通过）。2026-09-07：0.2.x 调试版以隔离目录启动通过；Overlay 标题栏布局经浏览器 `native-titlebar` 模拟验证；顶部拖拽处理器选择器逻辑经浏览器实测。2026-09-21：`tauri icon` 重新生成整套图标；0.2.7 `.app` 构建通过 | 子窗口物理拖动与跨屏场景的人工复核（宿主无 AX 权限，自动化路径不可用；数学已由单元测试覆盖、跨屏已由用户实测确认）；0.2.7 实机启动/退出、导入对话框与 `.txt` 落盘、旧工作区迁移；计算器窄窗 5 分钟自动收起 |
 | 性能 | 2026-09-21 `pnpm bench`：300 变量行 / 20 次，中位 9.25 ms、p95 12.58 ms（预算 250 ms；单位系统加入后仍在基线附近，旧基线 8.92 / 12.67 ms） | 大文档与增量求值 |
 | CI | 2026-09-29 发布流程排障与修复：v1.0.0 首轮发布只产出 macOS 资产——根因是 `tauri.conf.json` 的 `bundle.targets` 写死 `["app"]`（后改为 `"all"`，本地构建历来用 `--bundles app,dmg` 覆盖所以未暴露）。改后 macOS 出 dmg，但 ubuntu-22.04 与 windows-latest 仍在 `pnpm tauri build` 编译期失败；仓库日志接口需管理员权限，改为把构建日志尾部写入 check-run 注解后读到真实报错：`error[E0599]: no method named 'title_bar_style'`——`title_bar_style()` / `hidden_title()` 是 macOS 专属 API（Windows 需 unstable feature，Linux 不支持），`calculator.rs` 无条件调用导致非 macOS 编译失败。修复：两处调用 `#[cfg(target_os = "macos")]` 隔离，前端 `hasNativeTitlebar` 同步改为仅 macOS（Windows/Linux 用系统标题栏，不预留红绿灯空间）。release.yml 同时改为显式构建步骤 + `gh release upload --clobber` 上传（产物路径按 `-path '*/release/bundle/*'` 匹配，兼容 `--target` 的 `target/<triple>/release/bundle` 布局）、guard 预建 Release 保留既有说明文字、失败时注解 + job summary 双通道留痕。macOS 侧 `pnpm check` / `check:native`（11 测试）通过；**第五轮（commit 9838f1a，tag v1.0.0）四个 publish 任务全部 success**，Release 共 9 个资产：macOS arm64/x64 各一 dmg 与 `.app.tar.gz`、Windows `.msi` + `-setup.exe`、Linux `.deb` + `.rpm` + `.AppImage`；误传的 deb 中间产物（control/data.tar.gz）已由上传步骤自动清除，用户编辑的 Release 说明未被覆盖。 | Windows/Linux 实机运行与安装未验证；AppImage/deb 依赖列表未实测 |

diff --git a/docs/product-specs/calculation-language.md b/docs/product-specs/calculation-language.md
@@ -78,6 +78,7 @@
 - 强制规则：乘号统一写成 `×`——`x`（按引擎判定为乘法时，与 `2 x 3`、`2x3` 的求值语义一致）与 `*` 都在排版前替换为 `×`。除号不替换：`÷` 与 `/` 保持原样，`/` 可继续用来表达分子/分母。
 - 单位制非自由时，一行内按 公制 > 英制 > 市制 把数字+单位换算成目标制式（显式 `to` 的行保持原样）。
 - 单位使用为中文/大写/小写时，改写算式里的单位写法；自由模式保留原文。
+- 中文写法优先级（1.6.1）：公斤 → 千克、公分 → 厘米——格式化把算式里这两种别名写法收敛到规范中文名（注释不参与，实时结果仍保留用户写法；其余中文别名如公尺、千米、焦耳不受影响）。
 - 乘号的判定与引擎共用同一条规则：只有写成 `x` 且左右是操作数时才当作乘法改写（`票价 x 人数` → `票价 × 人数`），变量名里的 `x`（`x = 5`、`max`）和单独的 `x` 不受影响；格式化前后的求值结果必须逐行一致。
 - 强制规则：连续空格收敛为单空格、行尾无空格、`#` 与 `//` 都可用作整行注释/标题与尾部注释（`#` 前不需要空格，`预算=交通+3#备注` 的 `#备注` 即尾部注释）；标签一律归一为英文冒号加单空格（`备用金：每人 × 10%` → `备用金: 每人 × 10%`）。
 - 撤销：格式化后 Cmd/Ctrl+Z 可整篇还原（应用内撤销），用户继续编辑后该撤销作废。
